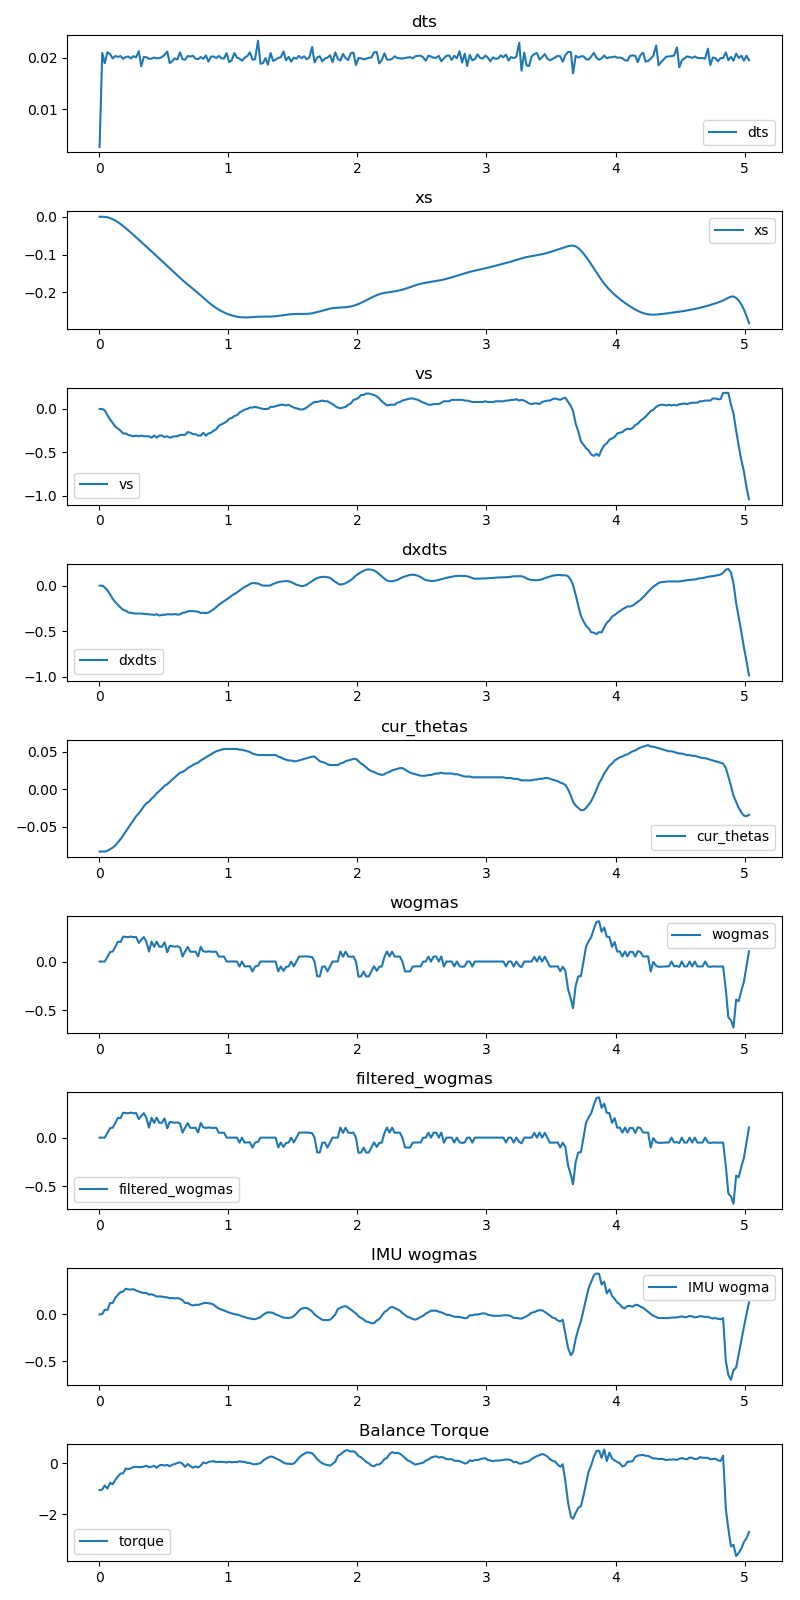
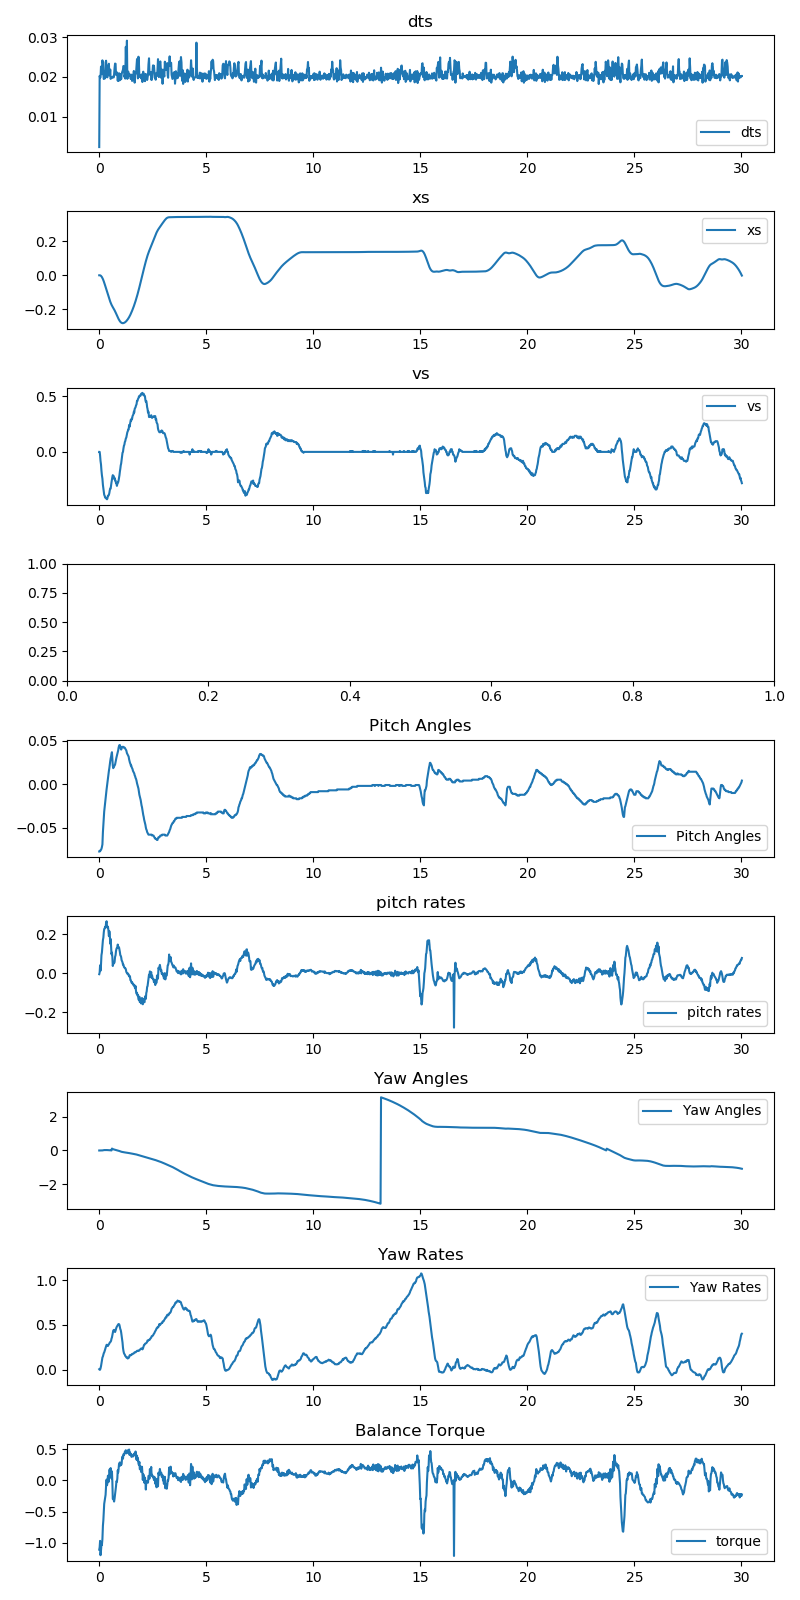
tested new dynamics, working balancing no yaw yet

diff --git a/LQR.py b/LQR.py
@@ -19,11 +19,12 @@ odrv0 = odrive.find_any()
 ref_time = time.time()
 t2m = 0.528 #turns to meters
 
-# K = np.array([-31.6228, -30.5921, -92.5864, -32.4303])
-# K = np.array([-10.0000, -11.3648, -43.2605, -15.2819]) #working ones
-# K = np.array([-31.6228, -30.5921, -92.5864, -32.4303])
-# K = np.array([-1.0000,  -2.0552, -17.2178,  -6.2506]) #smaller torques
-K = np.array([-3.1623,  -4.5965, -24.7847,  -8.8673]) #medium torques higher position objective
+
+
+K = np.array([-3.1623,  -4.4213, -28.1290,  -8.7088]) #New dynamimcs ones
+
+
+
 
 
 def LQR(axis0, axis1):
@@ -73,10 +74,10 @@ def LQR(axis0, axis1):
 
         pitch_angle=IMU.getPitchAngle() 
         yaw_angle=IMU.getYawAngle()
-        pitch_rate=IMU.getPitchRate()
+        pitch_rate=-IMU.getPitchRate()
         yaw_rate=IMU.getYawRate()
 
-        X = np.array([x, v, pitch, pitch_rate])
+        X = np.array([x, v, pitch_angle, pitch_rate])
 
         U = -K @ (X - Xf)
 
@@ -89,17 +90,15 @@ def LQR(axis0, axis1):
         dts.append(dt)
         xs.append(x)
         vs.append(v)
-        dxdts.append((x - prev_x) / dt)
 
-        pitchAngles.append(pitch)
-        yawAngles.append(yaw)
+        pitchAngles.append(pitch_angle)
+        yawAngles.append(yaw_angle)
         pitchRates.append(pitch_rate)
         yawRates.append(yaw_rate)
 
         torque_commands.append(torque_command)
 
         prev_time = cur_time
-        prev_x = x
 
     brake_both_motors(a0, a1)
 
@@ -119,11 +118,6 @@ def LQR(axis0, axis1):
     axs[2].plot(times, vs, label='vs')
     axs[2].legend()
     axs[2].set_title("vs")
-
-    # Plot 4
-    axs[3].plot(times, dxdts, label='dxdts')
-    axs[3].legend()
-    axs[3].set_title("dxdts")
 
     # Plot 5
     axs[4].plot(times, pitchAngles, label='Pitch Angles')

diff --git a/tests/IMU_test.py b/tests/IMU_test.py
@@ -20,7 +20,7 @@ plot_dir = './plots/'
 plt.switch_backend('Agg')
 
 stamp = time.time()
-while (time.time() - stamp < 20):
+while (time.time() - stamp < 200):
     time.sleep(0.005)
     # print(IMU.getAngleCompRads())
     # print(f'{IMU.getWogma()[0]:.3f} | {IMU.getWogma()[1]:.3f} | {IMU.getWogma()[2]:.3f}')
@@ -29,12 +29,13 @@ while (time.time() - stamp < 20):
     # angle = IMU.getAngle()
     # wogma = IMU.getWogmaPitch()
     # wogma_yaw = IMU.getWogmaYaw()
-    angleYaw = IMU.getYaw()
+    angleYaw = IMU.getYawAngle()
+    anglePitch = IMU.getPitchAngle()
 
 
 
     # print(angle)
-    print(angleYaw)
+    print(anglePitch)
 
     # values.append(angle[0])
     # valuesRaw1.append(angle[1])

diff --git a/IMU.py b/IMU.py
@@ -162,7 +162,7 @@ class IMU:
 
     # calculate angle based on the angle of the gravity vector and a trim value for what it is while balanced
     def getPitchAngle(self):
-        adjust = -0.017#rads
+        adjust = -0.016#rads
 
         vec = self.getGravityVector()
 
